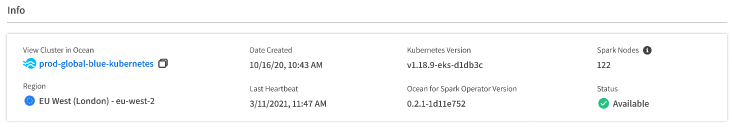
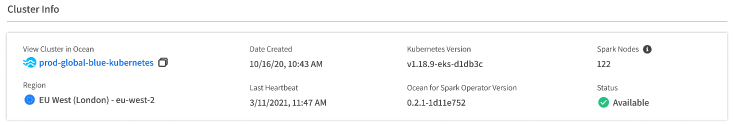
view cluster details

diff --git a/src/docs/ocean-spark/product-tour/view-cluster-details.md b/src/docs/ocean-spark/product-tour/view-cluster-details.md
@@ -1,3 +1,87 @@
 <meta name="robots" content="noindex">
 
 # View Cluster Details
+
+To drill down into the details about your Ocean for Apache Spark cluster, start with the Overview tab, which gives you quick access to insights and summary data over the entire cluster. You can obtain an overview of your current cost, efficiency status, detailed cluster information, a Spark application overview, and tracking of cluster analytics. You can view more details about the cluster in additional tabs including a [cost analysis](ocean-spark/product-tour/analyze-costs) and the [Ocean Controller logs](ocean-spark/product-tour/view-cluster-details?id=view-ocean-controller-log).
+
+To get to the Cluster Overview tab, do the following:
+1. In the Spot console, go to Ocean for Spark in the menu tree and click Clusters.
+2. In the list of Clusters, click a Cluster Name.
+
+<img src="/ocean-spark/_media/tutorials-clusters-01a.png" />
+
+The Cluster page opens with the Overview tab open and the cluster name at the top. Next to the cluster name, a status icon indicates the cluster status as one of the following:
+- Progressing - The cluster resources are being created.
+- Deleting - The cluster resources are being deleted.
+- Available - The cluster is available.
+- Unreachable - The cluster stopped sending heartbeat. This can be caused by the cluster going down or by a networking issue between the cluster and Spot's backend.
+- Degraded - One of the cluster components is unhealthy. Some features may not be available.
+- Failing - A critical cluster component is unhealthy.
+- Unknown - The cluster status API has an unexpected, internal error.
+
+[CAPTURE HERE]
+
+The Cluster Overview includes the following main areas:
+- Metrics
+- Cluster Info
+- Applications
+- Analytics
+
+## Metrics
+
+Cluster Metrics is a summary line providing insights into your cluster usage. The default display shows data from the last 24 hours. You can also see the numbers for the last seven days and the last 30 days. The following information is presented:
+- Cloud Cost: The cloud provider’s costs incurred by all applications in this cluster during the selected period.
+- Efficiency Score: The fraction of the time that Spark executor cores are running Spark tasks.
+- Core Hours: Total core resources used by all your Spark applications in this cluster during the selected time period.
+- Data Read: Amount of data read during the selected time period.
+- Data Written: Amount of data written during the selected time period.
+
+## Cluster Info
+
+The Cluster Info area gives you a quick point of reference for vital information about the cluster.
+
+<img src="/ocean-spark/_media/tutorials-cluster-02a.png" />
+
+The following details and references are provided:
+- View Cluster in Ocean: Link to the cluster in Ocean.
+- Region: Cloud provider region
+- Date Created
+- Last Heartbeat: The last heartbeat or the Ocean Spark controller.
+- Kubernetes Version
+- Ocean Spark Operator Version
+- Spark Nodes: The current number of Kubernetes nodes dedicated to Spark in your cluster.
+- Status
+
+## Applications
+
+The Applications line gives you a quick rundown of the status of your Spark applications on the cluster. Each tile shows the number of applications in each status during the selected time period. The following statuses are shown:
+- Pending
+- Running
+- Completed
+- Killed
+- Failed
+
+If you want to go directly to the Applications view, click View Apps or click directly on one of the Application status cards.
+
+<img src="/ocean-spark/_media/tutorials-cluster-04.png" />
+
+## Cluster Analytics
+
+Ocean Spark provides detailed analytics about the cluster. You can view the following graphs and charts:
+- App Completion Trend: This graph is a histogram showing the number of completed, failed, killed, and timed out application runs over time.
+- App Load History: This graph shows the number of running and pending apps over the selected time and the number of Spark cores used over the same time period.
+- App Last Completion Runtime: A bar chart showing the amount of time to run the last completion of a Spark application. The chart shows the last runs of the last eight applications run.
+
+You can set the time span shown in each graph to one, seven, or 30 days.
+
+## View Ocean Controller Log
+
+To view the Ocean controller log for the cluster, click the Ocean Controller Logs tab at the top of the Cluster page.
+
+## Remove Cluster
+
+You can remove a cluster directly from the Cluster page. Just click Remove in the upper right.
+
+## What’s Next?
+
+Learn more about Ocean Spark’s [Cost Analysis](ocean-spark/product-tour/analyze-costs) of your Spark cluster.
